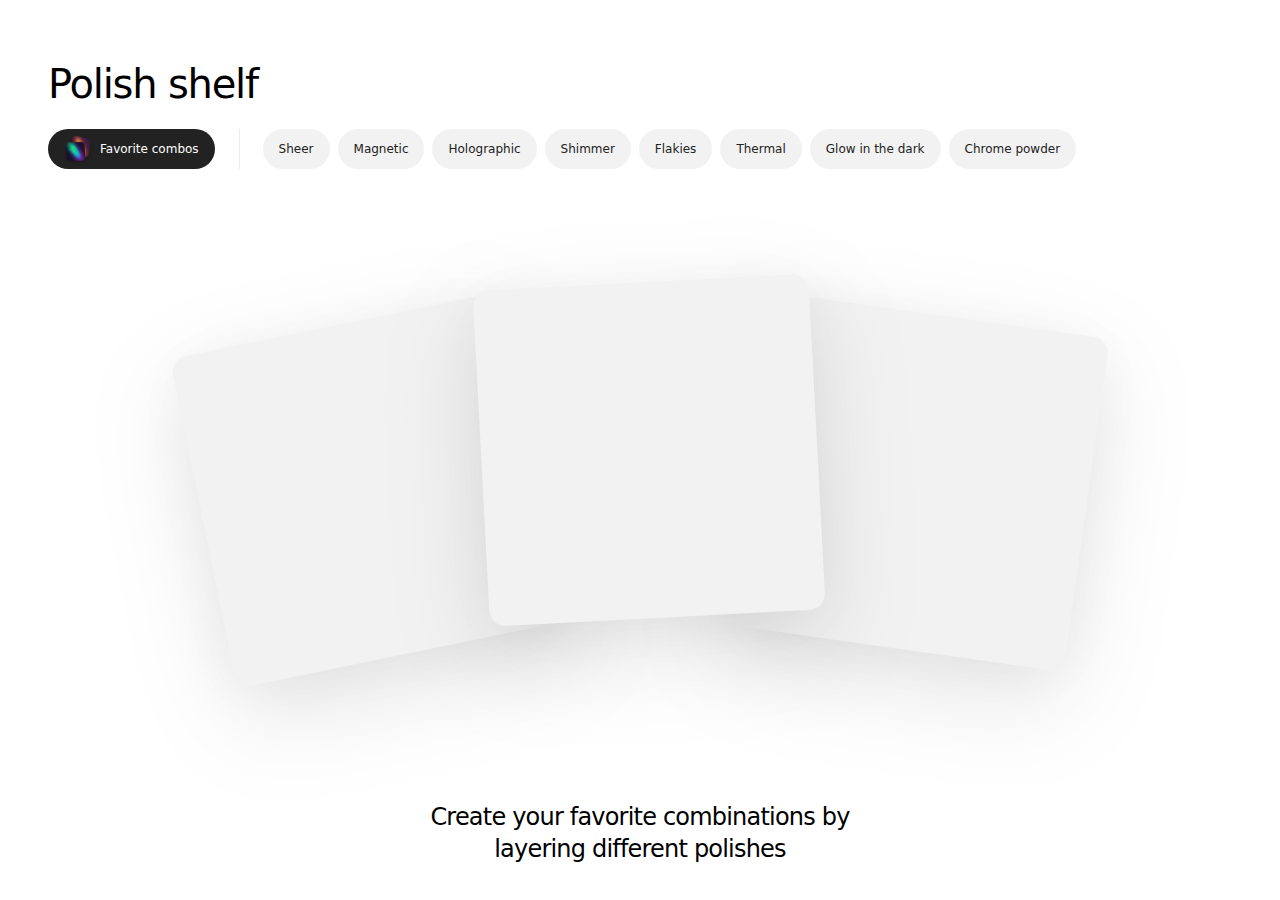
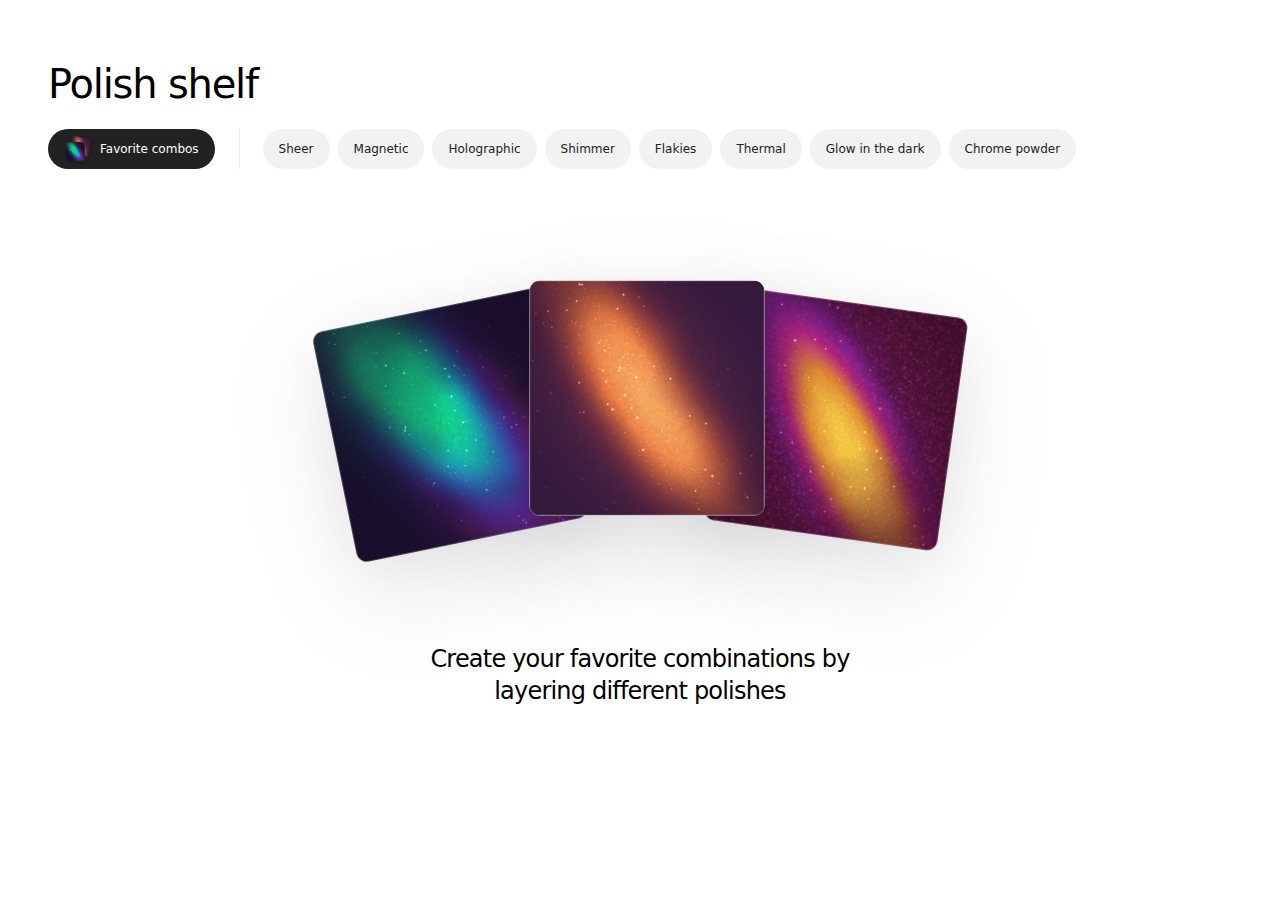
Combos empty state: 70% size, placeholder swatches, straight middle card
Claude-Session: https://claude.ai/code/session_011cKhyPRxDDqYPgdYkhiBma

Changed region(s): [[0.2188, 0.3111, 0.7812, 0.6222], [0.3438, 0.6533, 0.6875, 0.7778], [0.3438, 0.9022, 0.6562, 0.9644]]

diff --git a/css/style.css b/css/style.css
@@ -152,17 +152,19 @@ button, input, select { font: inherit; color: inherit; }
 .pill.tiny { padding: 6px 12px; font-size: 12px; line-height: 18px; } /* card effect pills (Figma: smaller pill) */
 .empty { grid-column: 1 / -1; border: 1px dashed var(--line); border-radius: 24px; padding: 1.5rem; text-align: center; color: var(--muted); font-size: 14px; }
 .empty strong { display: block; color: var(--fg); font-weight: normal; font-size: 18px; margin-bottom: 4px; }
-/* Combos page empty state (Figma node 2212:1478): three 336px blank cards turned -11.6, -3 and 8 degrees,
-   laid out on their 940 x 415 footprint and scaled down with the page, then the copy 112px below. */
-.combos-empty { grid-column: 1 / -1; display: flex; flex-direction: column; align-items: center; gap: 112px; padding: 40px 0 80px; }
-.ce-cards { position: relative; width: min(940px, 100%); aspect-ratio: 940.49 / 415.49; }
-.ce-card { position: absolute; width: 35.7261%; aspect-ratio: 1; border-radius: 16px; background: #f2f2f2; translate: -50% -50%;
+/* Combos page empty state (Figma node 2212:1478): three 336px cards, the outer two turned -11.6 and 8 degrees (the middle one straight),
+   laid out on their 940 x 415 footprint at 70% (235px cards) and scaled down with the page, then the
+   copy 112px below. Each card shows a placeholder polish swatch. */
+.combos-empty { grid-column: 1 / -1; display: flex; flex-direction: column; align-items: center; gap: 78px; padding: 40px 0 80px; }
+.ce-cards { position: relative; width: min(658px, 100%); aspect-ratio: 940.49 / 415.49; }
+.ce-card { position: absolute; width: 35.7261%; aspect-ratio: 1; border-radius: 11px; overflow: hidden; background: #f2f2f2; translate: -50% -50%;
   filter: drop-shadow(0 0 0 rgba(0, 0, 0, .02)) drop-shadow(0 8px 32px rgba(0, 0, 0, .04)) drop-shadow(0 32px 48px rgba(0, 0, 0, .1)); }
 .ce-1 { left: 21.0901%; top: 52.0710%; rotate: -11.6deg; }
-.ce-2 { left: 50.9904%; top: 42.4944%; rotate: -3deg; z-index: 1; } /* the middle card sits on top */
+.ce-2 { left: 50.9904%; top: 42.4944%; z-index: 1; } /* the middle card sits on top, straight */
 .ce-3 { left: 79.8254%; top: 50.0012%; rotate: 8deg; }
+.ce-card canvas { display: block; width: 100%; height: 100%; }
 .ce-text { max-width: 427px; margin: 0; text-align: center; font-size: 24px; line-height: 32px; font-weight: 500; letter-spacing: -.8px; color: #000; }
-@media (max-width: 600px) { .combos-empty { gap: 48px; padding-top: 24px; } .ce-card { border-radius: 10px; } .ce-text { font-size: 20px; line-height: 28px; letter-spacing: -.5px; } }
+@media (max-width: 600px) { .combos-empty { gap: 48px; padding-top: 24px; } .ce-card { border-radius: 8px; } .ce-text { font-size: 20px; line-height: 28px; letter-spacing: -.5px; } }
 
 /* Layering pane (Figma "Desktop - 7", node 2180:86749): opens on the right while layering is on and
    sticks to the top of the window as the shelf scrolls. */

diff --git a/js/app.js b/js/app.js
@@ -1087,8 +1087,17 @@ function renderShelf() {
 const MONTH = new Intl.DateTimeFormat("en-US", { month: "long", year: "numeric" });
 function renderCombos() {
   const grid = $("#grid"); grid.innerHTML = "";
-  // Empty state (Figma node 2212:1478): three blank tilted cards over a line of copy.
-  if (!combos.length) { grid.innerHTML = `<div class="combos-empty"><div class="ce-cards" aria-hidden="true"><span class="ce-card ce-1"></span><span class="ce-card ce-2"></span><span class="ce-card ce-3"></span></div><p class="ce-text">Create your favorite combinations by layering different polishes</p></div>`; return; }
+  // Empty state (Figma node 2212:1478): three cards (the outer two tilted) over a line of copy, each showing one of the
+  // first polishes on the shelf as a placeholder swatch.
+  if (!combos.length) {
+    grid.innerHTML = `<div class="combos-empty"><div class="ce-cards" aria-hidden="true"><span class="ce-card ce-1"></span><span class="ce-card ce-2"></span><span class="ce-card ce-3"></span></div><p class="ce-text">Create your favorite combinations by layering different polishes</p></div>`;
+    grid.querySelectorAll(".ce-card").forEach((card, i) => {
+      const p = state.polishes[i]; if (!p) return;
+      const w = Math.round(card.getBoundingClientRect().width) || 235, cv = document.createElement("canvas");
+      renderSwatch(cv, p, w, w); card.appendChild(cv);
+    });
+    return;
+  }
   const list = [...combos].reverse().filter(c => !state.fx.size || liveLayers(c.layers).some(L => effectsOf(L.polish).some(k => state.fx.has(k))));
   if (!list.length) { grid.innerHTML = emptyMsg("No matches", "No saved combos with that effect yet."); return; }
   for (const c of list) {
